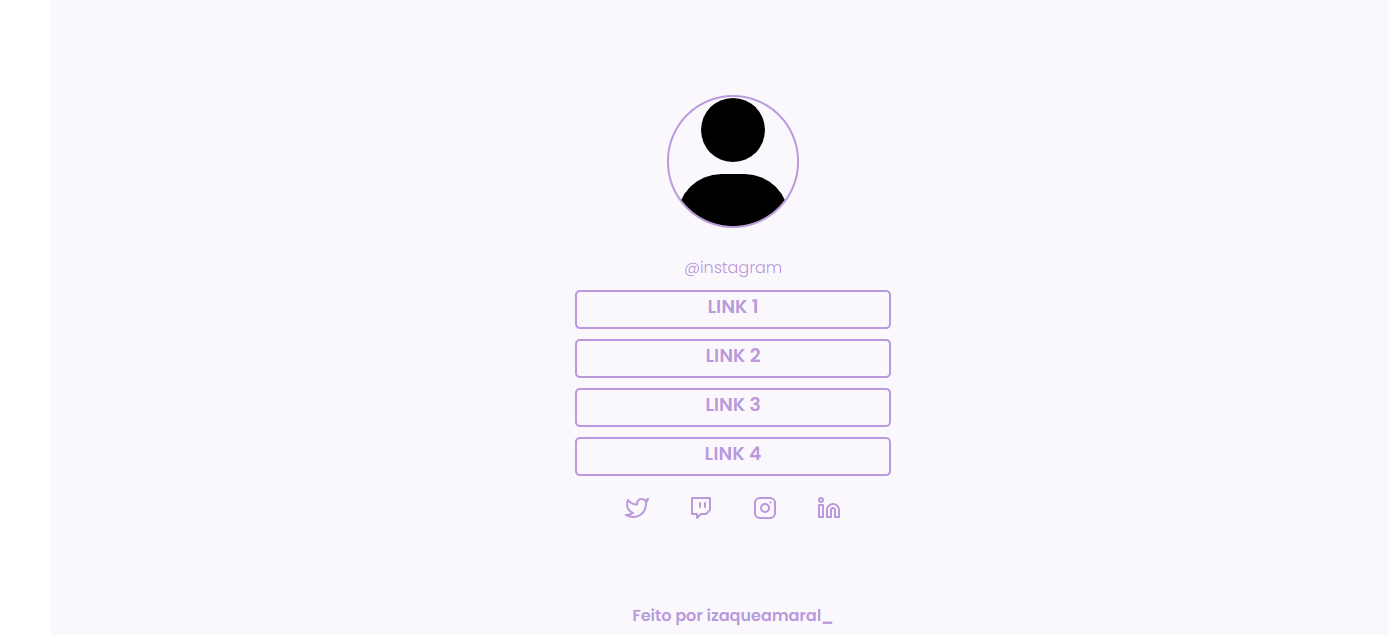
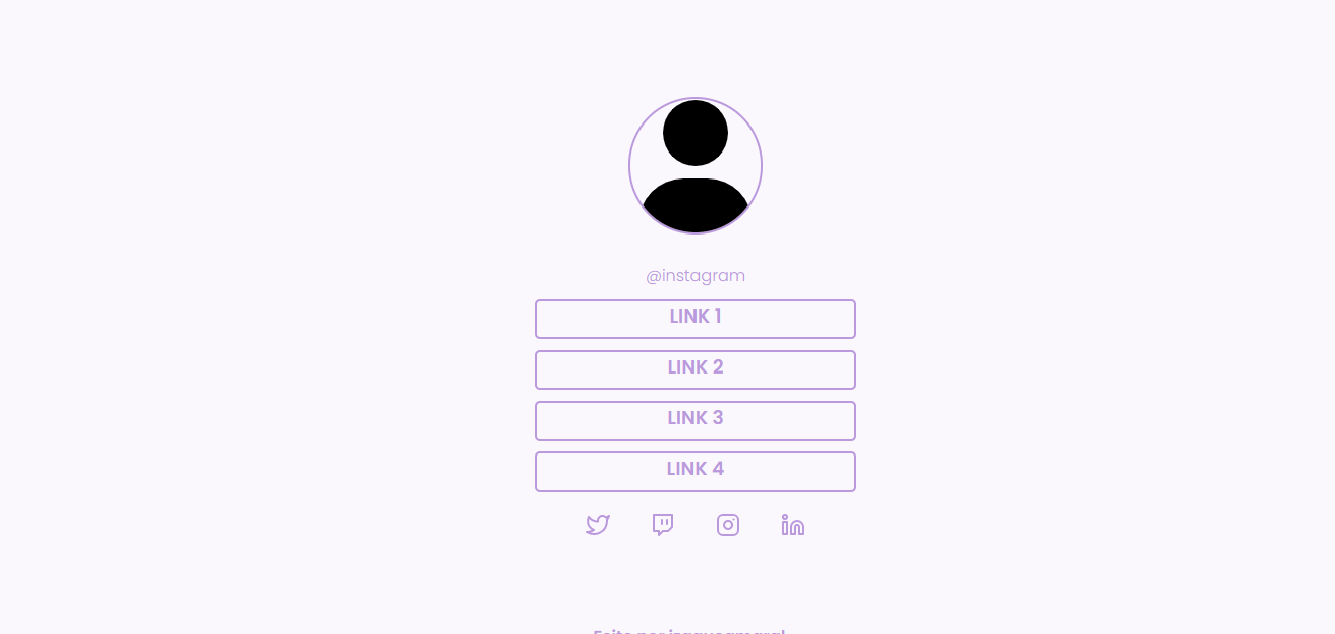
Atualização

Changed region(s): [[0.3993, 0.1498, 0.6449, 0.8391], [0.43, 0.959, 0.6142, 1.0]]

diff --git a/README.md b/README.md
@@ -1,5 +1,5 @@
 <p align="center">
-    <img src="./src/imagens/inicio.png" alt="" width="500px">
+    <img src="./src/imagens/inicio.png" alt="">
 </p>
 
 <p align="center">
